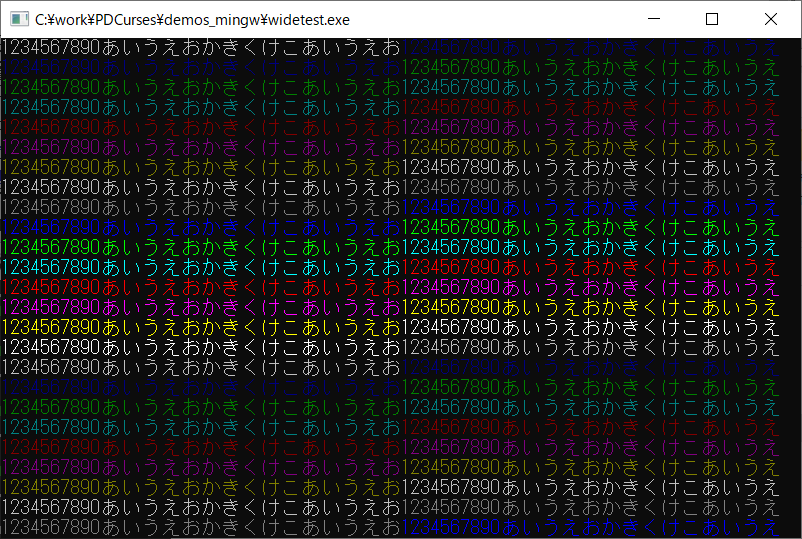
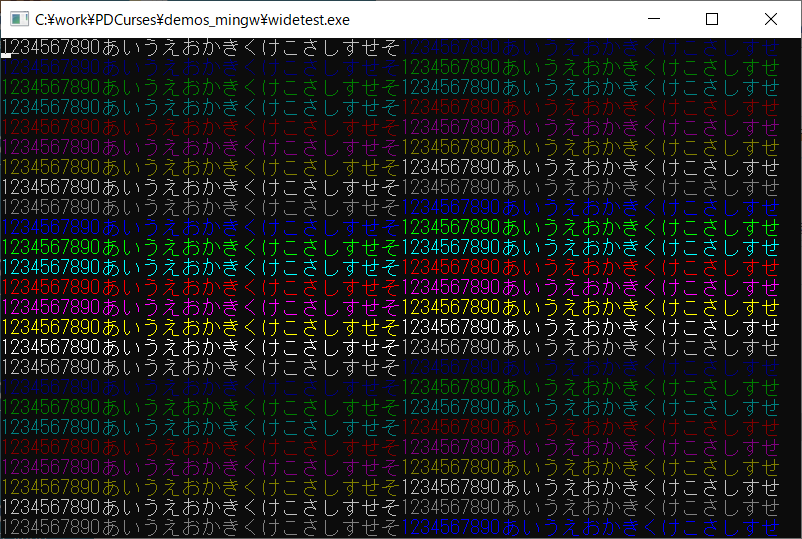
demo chg

diff --git a/demos_mingw/widetest.c b/demos_mingw/widetest.c
@@ -9,7 +9,7 @@
 int main(void)
 {
     int i;
-    char *str = "1234567890あいうえおかきくけこあいうえお";
+    char *str = "1234567890あいうえおかきくけこさしすせそ";
 
     /* initialize */
     initscr();
@@ -45,7 +45,7 @@ int main(void)
     clear();
     for (i = 0; i < LINES; i++) {
         attrset(COLOR_PAIR(i % 16));
-        mvaddstr(i, 0, str);
+        mvaddstr(i,  0, str);
         attrset(COLOR_PAIR((i + 1) % 16));
         mvaddstr(i, 25, str);
     }
